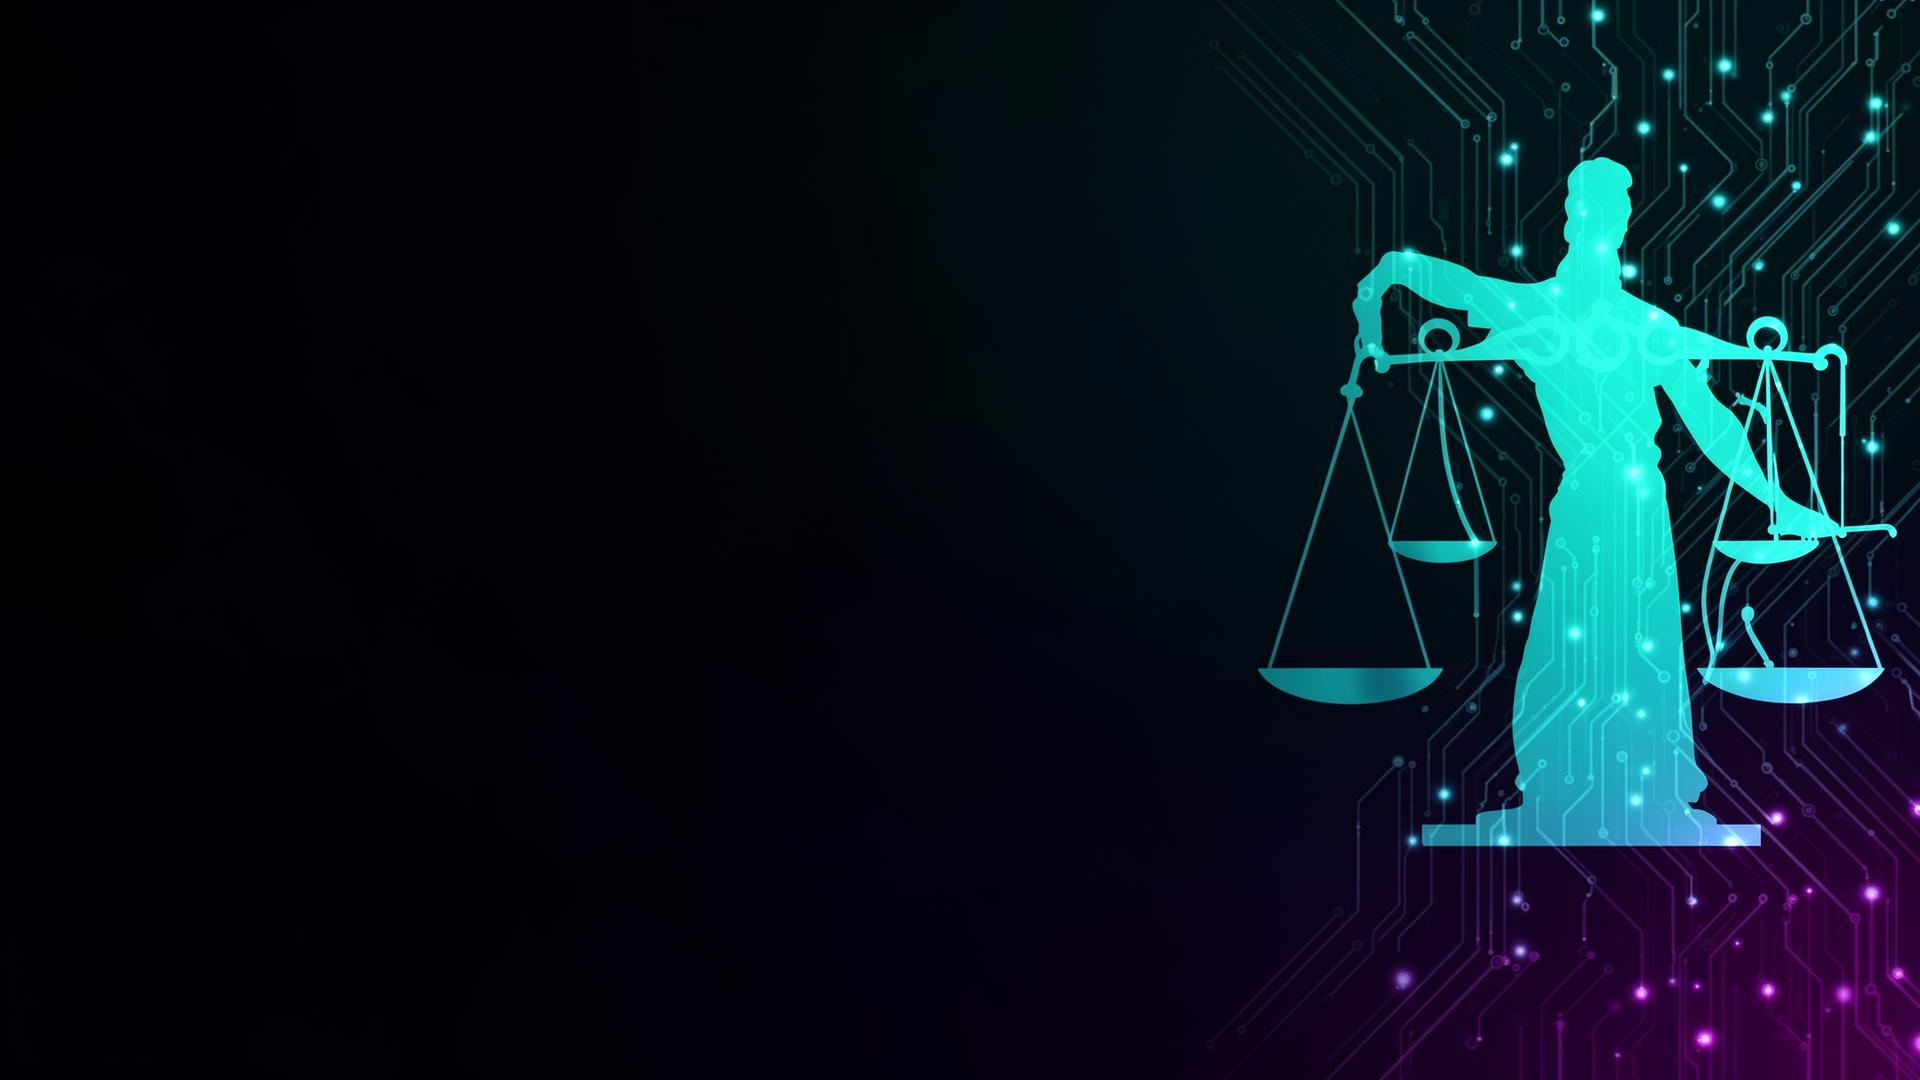
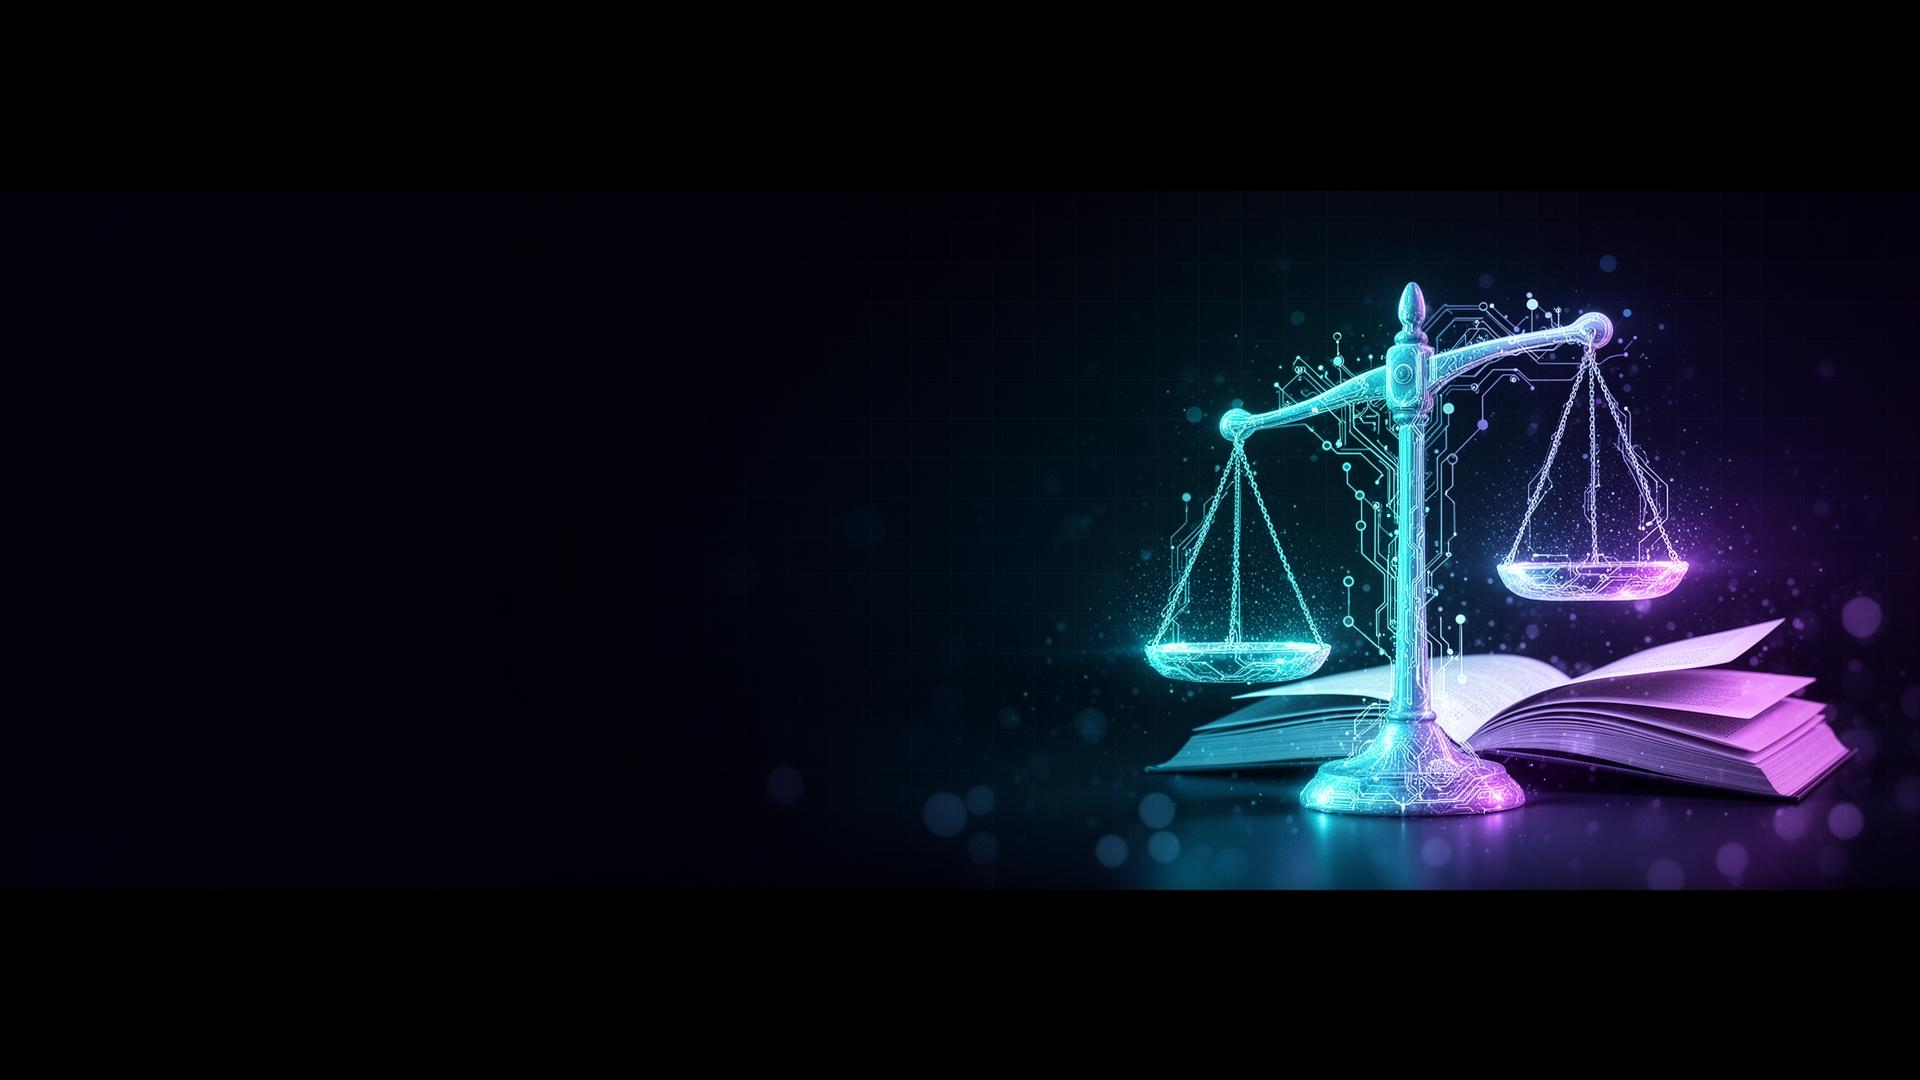
Changes

Changed region(s): [[0.5625, 0.0, 1.0, 1.0], [0.4688, 0.7333, 0.5312, 0.7944]]

diff --git a/.lovable/plan.md b/.lovable/plan.md
@@ -1,31 +1,17 @@
-## Banner de saudação no Dashboard
+## Nova imagem de fundo do banner de saudação
 
-Criar um container superior em `src/routes/_authenticated.dashboard.tsx` (acima do título "Minhas peças") replicando o estilo da imagem de referência:
+Gerar uma nova arte de fundo via IA com identidade visual da plataforma (Direito + IA) e aplicá-la ao container de boas-vindas do dashboard.
 
-- **Layout**: card horizontal full-width, altura ~140px, bordas arredondadas (`rounded-xl`), borda sutil `border-border/50`.
-- **Fundo**: gradiente escuro com a arte temática "circuitos + balança da justiça" no lado direito (decorativa, opacidade reduzida) — gerada via `imagegen` em `src/assets/dashboard-hero-bg.jpg` no mesmo estilo cyan→violeta da marca.
-- **Conteúdo (esquerda, padding generoso)**:
-  - Chip pequeno no topo: `AI-Native · Advoga.AI` em verde-lima sobre pílula escura.
-  - Saudação grande (`text-3xl md:text-4xl font-bold`):
-    - "Boa tarde, " em branco (varia conforme hora: Bom dia / Boa tarde / Boa noite).
-    - Nome do usuário em **MAIÚSCULAS** (`uppercase`) e cor `text-gradient-brand` (cyan→violeta), conforme print.
-  - Linha inferior: data por extenso em português (ex: "Sábado, 09 De Maio De 2026") em `text-muted-foreground text-sm`.
+### Conceito visual
+- Tema: **Justiça encontra Inteligência Artificial** — balança da justiça estilizada como circuito/rede neural, com livros de lei dissolvendo em partículas de dados luminosas.
+- Paleta: ciano (#22D3EE) → violeta (#8B5CF6) sobre fundo navy/preto profundo, alinhada aos tokens `text-gradient-brand` / `bg-gradient-brand`.
+- Estilo: futurista, minimalista, cinematográfico, com brilho sutil (glow) e linhas finas de circuito; lado direito mais denso para esmaecer suavemente à esquerda (onde fica o texto).
+- Proporção horizontal larga (1536×384, ~16:4) para ocupar a faixa do banner sem distorção.
 
-## Fonte do nome
+### Implementação
+- Gerar a imagem com `imagegen` (modelo `standard`) salvando em `src/assets/dashboard-hero-bg.jpg` (substitui o arquivo atual, mantendo o import existente).
+- Ajustar levemente o gradiente de máscara em `src/routes/_authenticated.dashboard.tsx` se necessário para garantir legibilidade do texto (lado esquerdo mais opaco).
+- Sem mudanças em outros arquivos, schema ou lógica.
 
-- Buscar `full_name` da tabela `profiles` (já existe, populada no signup) via `supabase.from("profiles").select("full_name").eq("id", user.id).single()`.
-- Fallback: parte local do e-mail (`user.email.split("@")[0]`).
-- Aplicar `.toUpperCase()` ao renderizar.
-
-## Detalhes técnicos
-
-- Arquivo a editar: `src/routes/_authenticated.dashboard.tsx`.
-- Novo componente local `DashboardHero` (mesmo arquivo, simples).
-- Saudação dinâmica por hora local: `<12 → "Bom dia"`, `<18 → "Boa tarde"`, senão `"Boa noite"`.
-- Data formatada com `date-fns` (já importado): `format(new Date(), "EEEE, dd 'De' MMMM 'De' yyyy", { locale: ptBR })` → capitalizar primeira letra e meses.
-- Imagem de fundo: `<div>` absoluto à direita com `bg-[url(...)] bg-cover bg-right opacity-40 mix-blend-screen mask-image` para esmaecer na esquerda.
-- Sem mudanças de schema, RLS já permite `select own profile`.
-
-## Fora de escopo
-
-- Edição/persistência do nome em uma página de "Configurações" (não existe ainda). Se desejar, criamos depois.
+### Fora de escopo
+- Nova animação, parallax ou troca dinâmica de imagem por horário.
